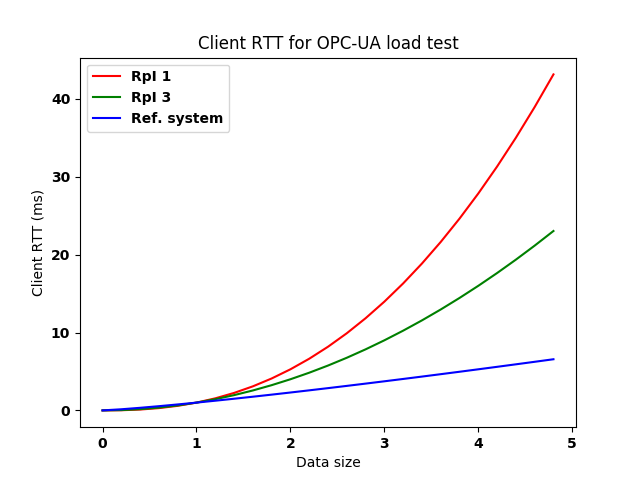
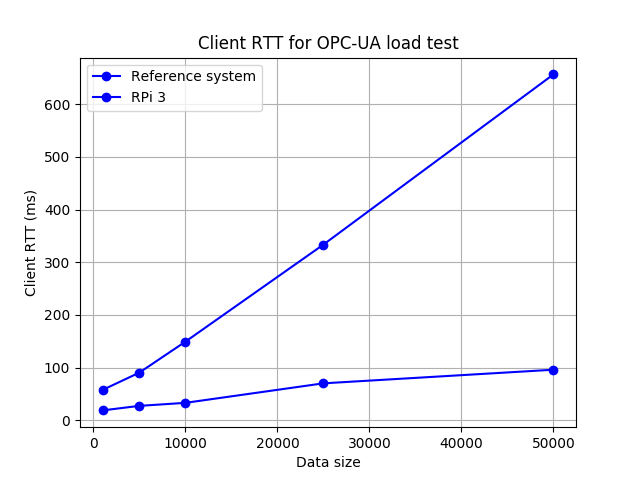
Data fetching done

diff --git a/client/src/main.py b/client/src/main.py
@@ -10,64 +10,66 @@ from data import data_process
 
 async def serverMethodCall(args):
     for data_size in args['data_sizes']:
-        for data_range in args['data_ranges']:
+        print(
+            f'\n\nServer: {args["server"]["server"]} ({args["server"]["name"]}), Data size: {data_size}, Client iterations: {args["client_iterations"]}'
+        )
+        print('--------------')
+
+        client_rtt_data = list()
+        server_rtt_data = {}
+        server_rtt_seq_data = list()
+        server_rtt_sort_data = list()
+
+        for i in range(args['client_iterations']):
+            time_start = time.time()
+
+            await args['objects'].call_method(
+                "2:random_sort",
+                data_size,
+                args['data_range']
+            )
+
+            remote_data_pool = await args['data_pool'].get_value()
+            remote_server_rtt = await args['server_rtt'].get_value()
+
+            time_end = time.time()
+
+            client_rtt = (time_end - time_start)*1000
+
+            client_rtt_data.append(client_rtt)
+
+            server_rtt_seq_data.append(remote_server_rtt[0])
+            server_rtt_sort_data.append(remote_server_rtt[1])
+
             print(
-                f'\nServer: {args["server"]["server"]}, Data size: {data_size}, Data range: {data_range}, Client iterations: {args["client_iterations"]}')
-            print('--------------')
+                f'Client RTT on iteration {i+1} = {str(round(client_rtt, 2))} ms'
+            )
 
-            data = {}
-            client_rtt_data = list()
-            server_rtt_data = {}
-            server_rtt_seq_data = list()
-            server_rtt_sort_data = list()
+        print(
+            f'Mean value: {str(round(statistics.mean(client_rtt_data), 2))}'
+        )
 
-            current_data_size = str(data_size) + "," + str(data_range)
+        data_process.gather_data(
+            "CLIENT_MEAN", args['server']['name'], data_size, client_rtt_data)
 
-            for i in range(args['client_iterations']):
-                time_start = time.time()
+        server_rtt_data['seq'] = server_rtt_seq_data
+        server_rtt_data['sort'] = server_rtt_sort_data
 
-                await args['objects'].call_method(
-                    "2:random_sort",
-                    data_size,
-                    data_range
-                )
-
-                remote_data_pool = await args['data_pool'].get_value()
-                remote_server_rtt = await args['server_rtt'].get_value()
-
-                time_end = time.time()
-
-                client_rtt = (time_end - time_start)*1000
-
-                client_rtt_data.append(client_rtt)
-                server_rtt_seq_data.append(remote_server_rtt[0])
-                server_rtt_sort_data.append(remote_server_rtt[1])
-
-                print(f'Client RTT on iteration {i+1} = {client_rtt} ms')
-
-            data_process.gather_data(
-                "CLIENT_MEAN", current_data_size, client_rtt_data)
-
-            server_rtt_data['seq'] = server_rtt_seq_data
-            server_rtt_data['sort'] = server_rtt_sort_data
-
-            data_process.gather_data(
-                'SERVER_MEAN', current_data_size, server_rtt_data)
-
-            data_process.server(args['server']['server'])
+        data_process.gather_data(
+            'SERVER_MEAN', args['server']['name'], data_size, server_rtt_data)
 
 
 async def init_server():
-
     servers = [{
         "server": 'opc-server:4881',
         "name": "Reference system"
     }, {
-        "server": 'opc-server:4881',
-        "name": "RPi 1"
+        "server": '192.168.1.23:4880',
+        "name": "RPi 3"
     }]
 
     for server in servers:
+        data_process.new_server(server)
         async with Client(url='opc.tcp://' + server['server']) as client:
             root_object = "0:Objects"
             root_node = client.get_root_node()
@@ -91,27 +93,29 @@ async def init_server():
             ])
 
             data_sizes = [
-                10000
+                100000,
+                250000,
+                500000,
+                1000000
             ]
 
-            data_ranges = [
-                100
-            ]
+            data_range = 10000
 
             args = {
                 'objects': objects,
                 'server_rtt': server_rtt,
                 'data_pool': data_pool,
                 'client_iterations': int(sys.argv[1]),
-                'data_ranges': data_ranges,
                 'data_sizes': data_sizes,
+                'data_range': data_range,
                 'server': server
             }
 
             await serverMethodCall(args)
-            data_process.print_result()
-            # data_process.plot_client()
-            # data_process.plot_server()
+
+    # data_process.print_result()
+    data_process.plot_client()
+    # data_process.plot_server()
 
 
 if __name__ == '__main__':

diff --git a/client/src/data/data_process.py b/client/src/data/data_process.py
@@ -2,73 +2,91 @@ import statistics
 import matplotlib.pyplot as plt
 import numpy as np
 from matplotlib import rc
+import random
+
+DECIMAL_PLACES = 2
+
+client_data = list()
+server_data = list()
 
 
-client_data = {}
-server_seq_mean = {}
-server_sort_mean = {}
+def new_server(server):
+    client_data.append({
+        "server": server['name'],
+        "data": list()
+    })
 
-server_data = {
-    "seq": server_seq_mean,
-    "sort": server_sort_mean
-}
-
-gathered_data = {
-    "client": client_data,
-    "server": server_data
-}
-
-data = {}
+    server_data.append({
+        "server": server['name'],
+        "data": list()
+    })
 
 
-def client_mean(size, payload):
-    current_client_rtt_mean = list()
-    current_client_rtt_mean = statistics.mean(payload)
-    client_data[size] = current_client_rtt_mean
+def client_mean(server, size, payload):
+    data_point = {}
+
+    data_point['size'] = size
+    data_point['time'] = str(round(statistics.mean(payload), 2))
+
+    client_data[-1]['data'].append(data_point)
 
 
-def server_mean(size, payload):
-    current_server_seq_mean = list()
-    current_server_sort_mean = list()
-    current_server_seq_mean = statistics.mean(payload['seq'])
-    current_server_sort_mean = statistics.mean(payload['sort'])
+def server_mean(server, size, payload):
+    server_time_types = {
+        "seq": str(round(statistics.mean(payload['seq']), DECIMAL_PLACES)),
+        "sort": str(round(statistics.mean(payload['sort']), DECIMAL_PLACES))
+    }
 
-    server_seq_mean[size] = current_server_seq_mean
-    server_sort_mean[size] = current_server_sort_mean
+    data_point = {}
+    data_point['size'] = size
+    data_point['time'] = server_time_types
+
+    server_data[-1]['data'].append(data_point)
 
 
-def server(name):
-    data[name] = gathered_data
-
-
-def gather_data(type, size, payload):
+def gather_data(type, server, size, payload):
     switcher = {
         "CLIENT_MEAN": client_mean,
         "SERVER_MEAN": server_mean
     }
     function = switcher.get(type)
-    function(size, payload)
+    function(server, size, payload)
 
 
 def print_result():
-    print(data)
+    print('\n\n=== Results ===')
+    print(f'Client data: {client_data}')
+    print(f'Server data: {server_data}')
+
+
+def test():
+    for data in client_data:
+        for sett in data['data']:
+            print(sett['size'])
 
 
 def plot_client():
     plt.close()
-    # evenly sampled time at 200ms intervals
-
-    t = np.arange(0., 5., 0.2)
-
-    # red dashes, blue squares and green triangles
+    colors = ['r', 'g', 'b']
 
     plt.title('Client RTT for OPC-UA load test')
     plt.ylabel('Client RTT (ms)')
     plt.xlabel('Data size')
+    plt.grid(True)
 
-    plt.plot(t, t**2.4, 'r', label='RpI 1')
-    plt.plot(t, t**2, 'g', label='RpI 3')
-    plt.plot(t, t**1.2, 'b', label='Ref. system')
+    for data_block in client_data:
+        x_values = list()
+        y_values = list()
+        for data_set in data_block['data']:
+            x_values.append(data_set['size'])
+            y_values.append(float(data_set['time']))
+        color = random.choice(colors)
+        plt.plot(x_values, y_values, linestyle='-',
+                 marker='o', color=color, label=data_block['server'])
+
+    # plt.plot(x, y, 'bo', label='AAA',)
+    # plt.plot(t, t**2, 'b', label='BBB')
+    # plt.plot(t, t**1.2, 'b', label='Ref. system')
 
     plt.legend()
     plt.savefig('client_plot.png')
